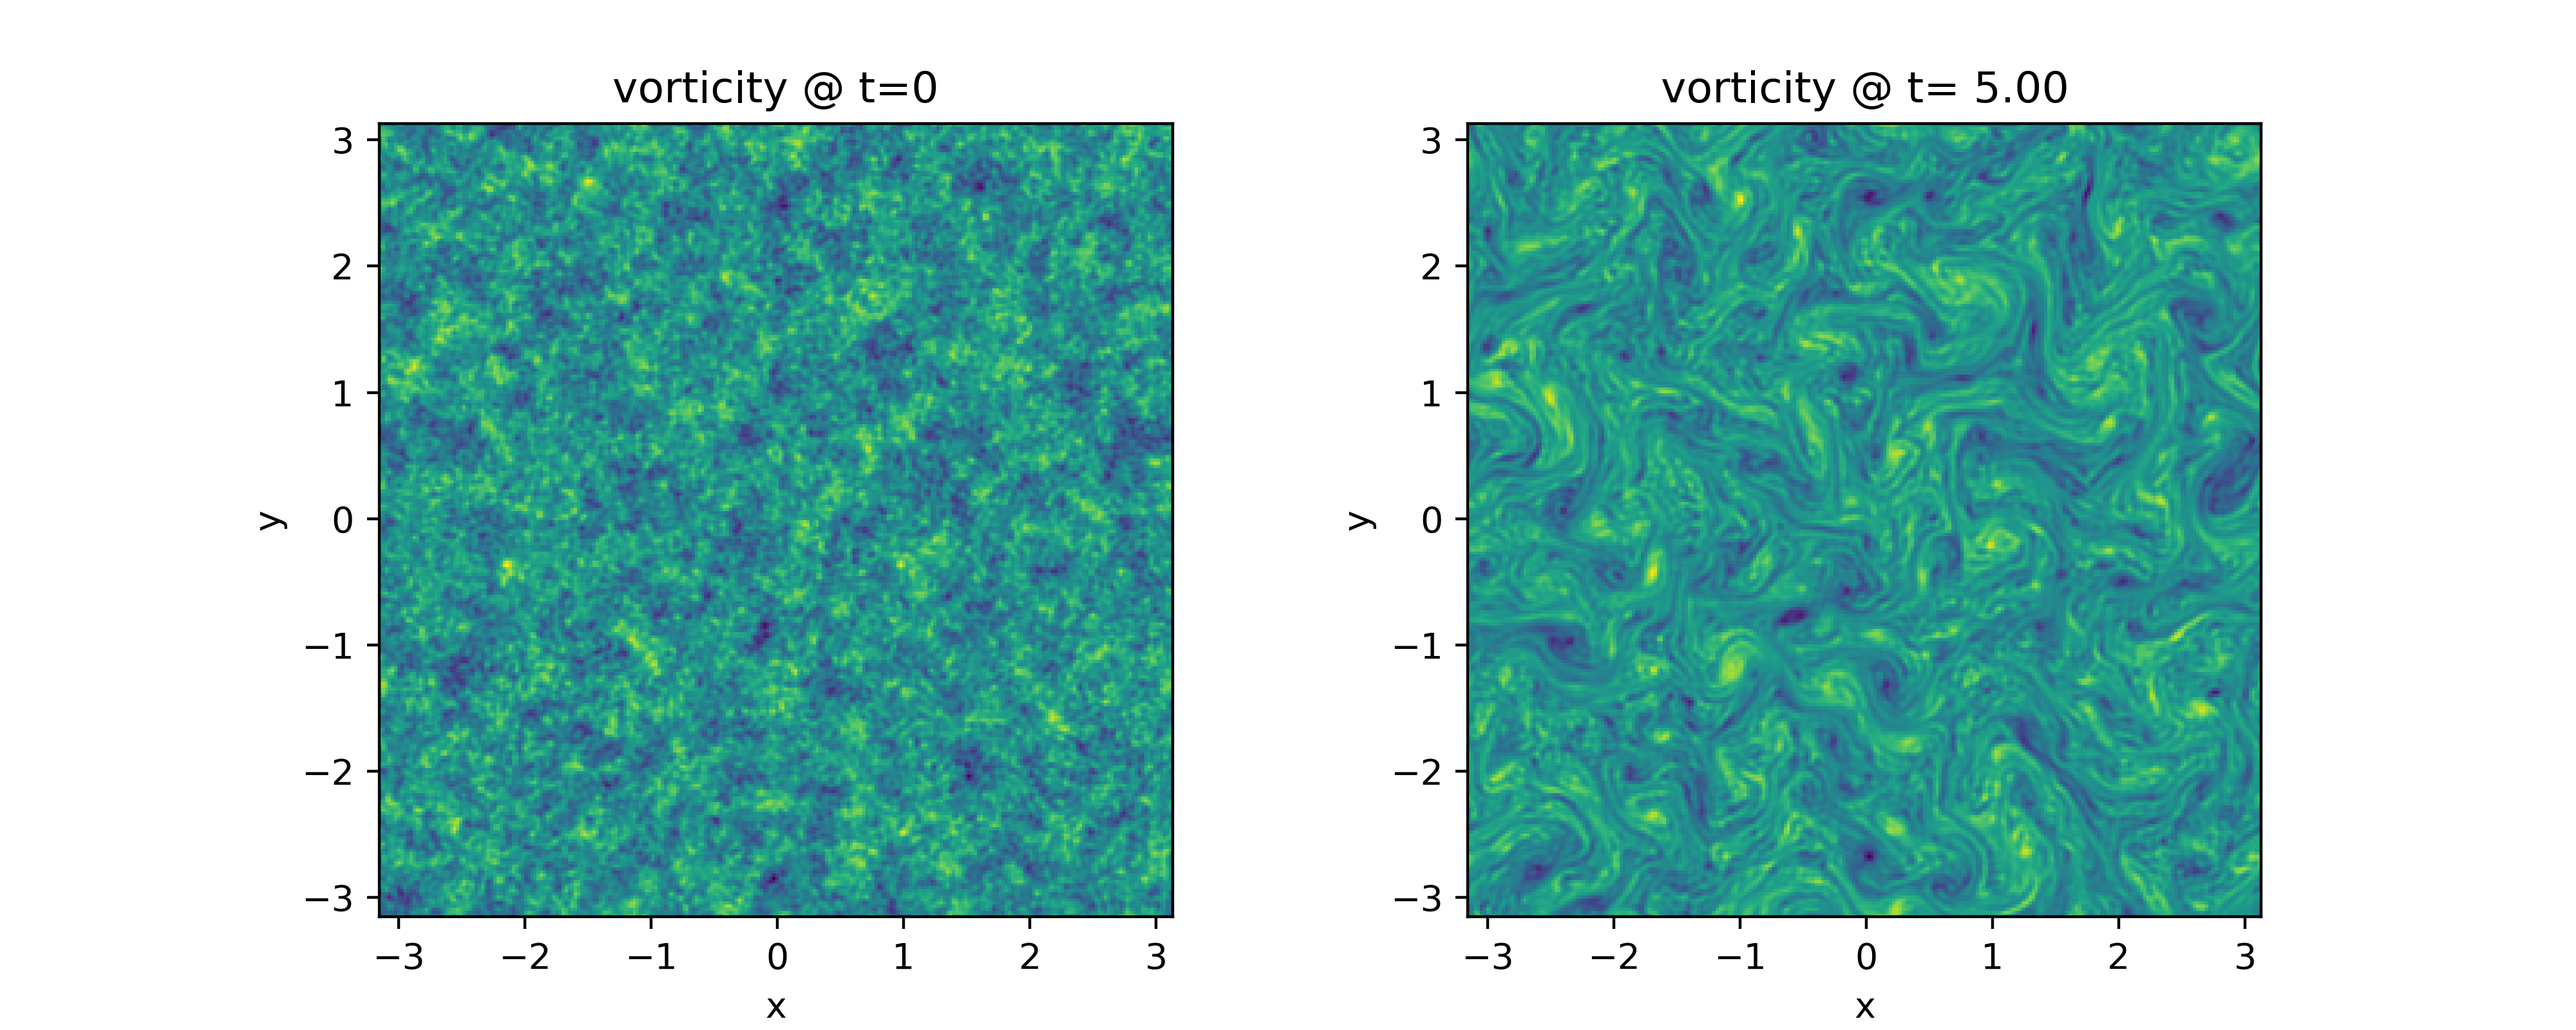
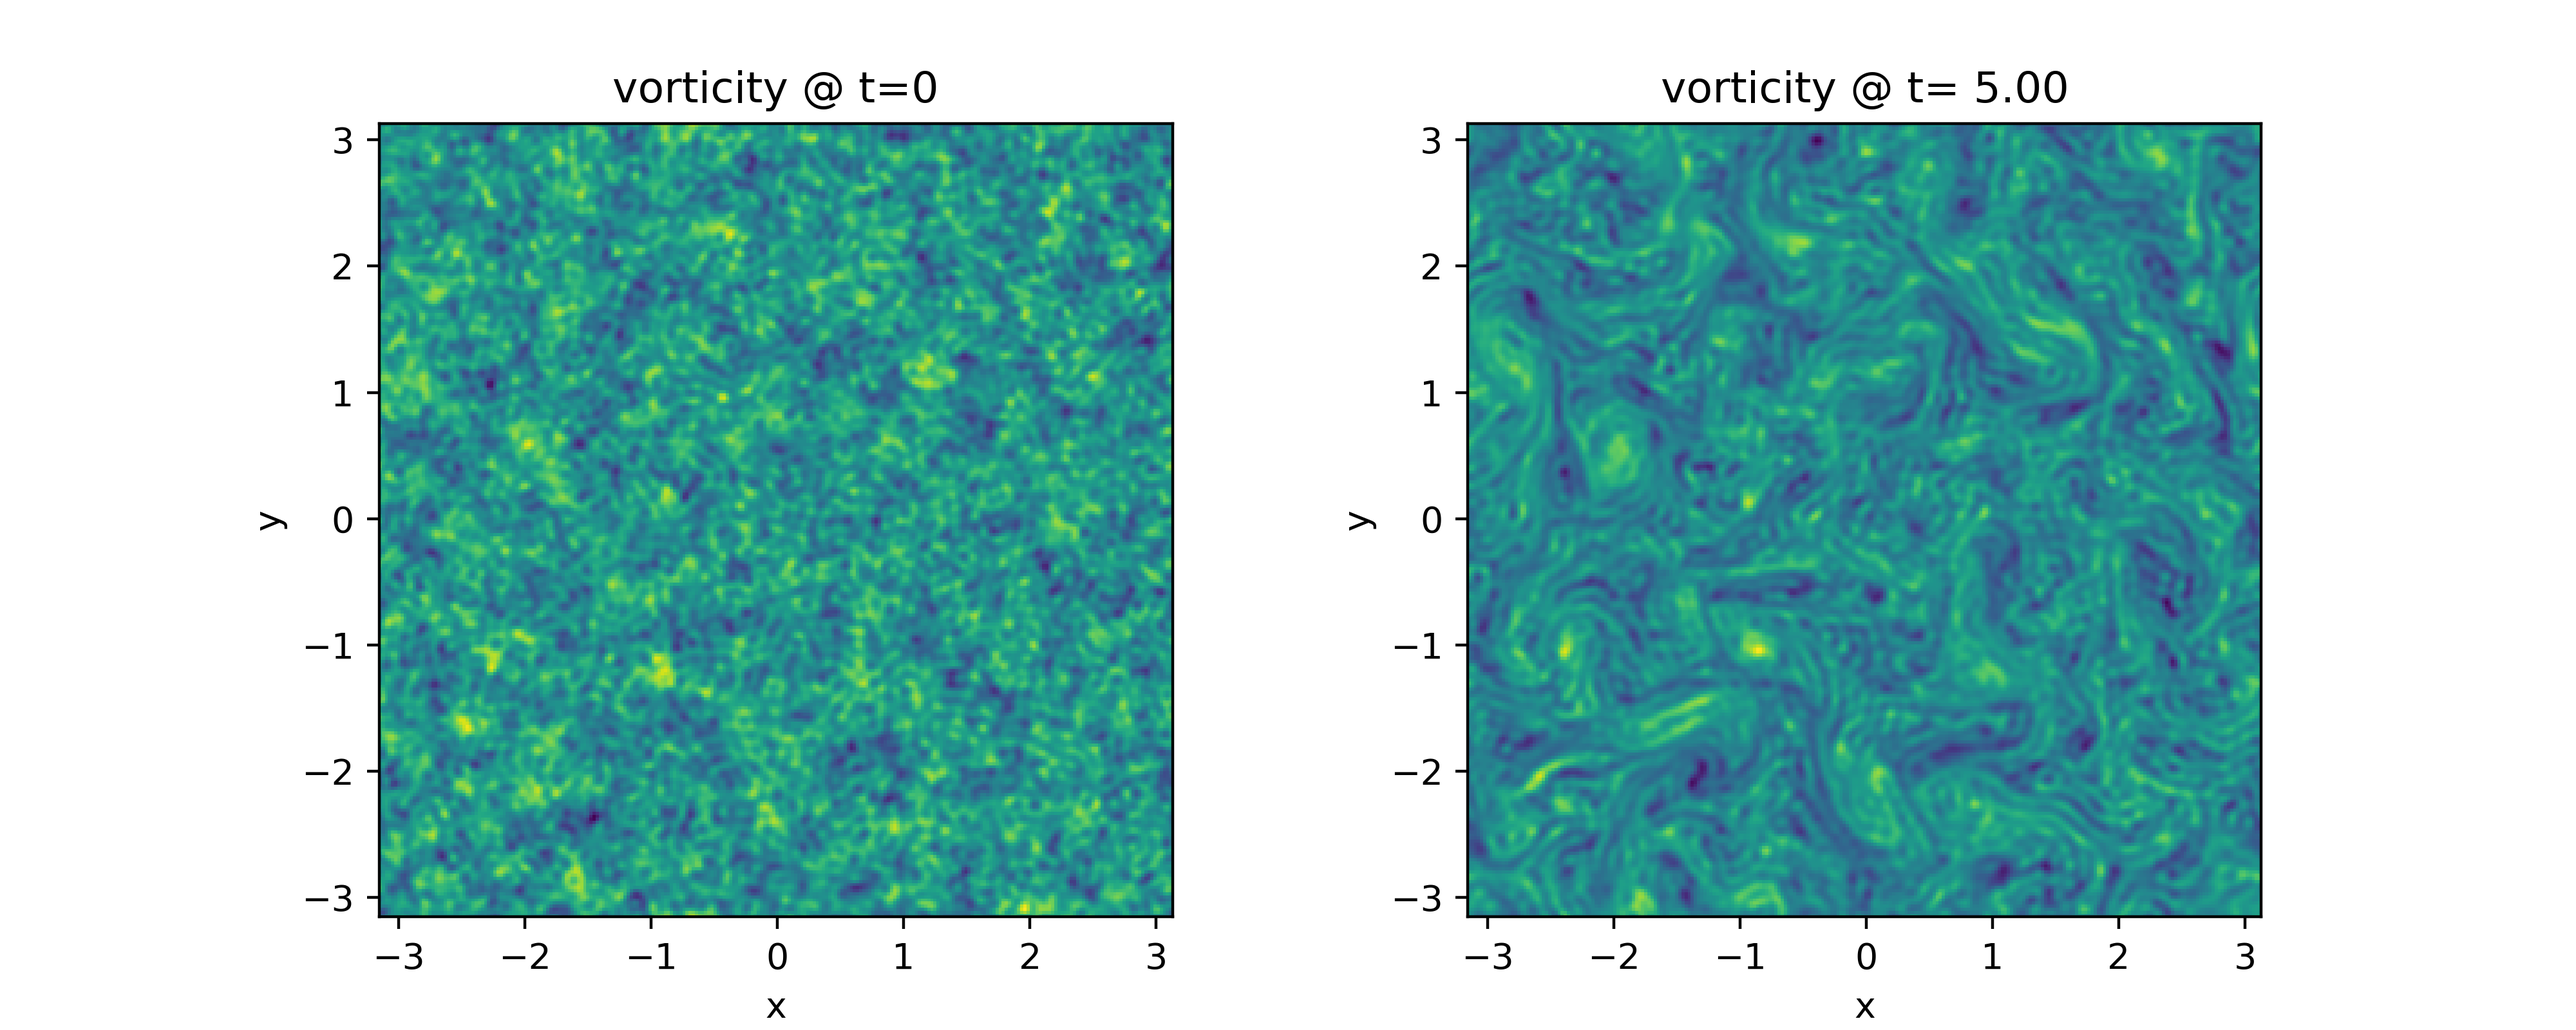
Reduce to one variable and account for dealiasing

Changed region(s): [[0.125, 0.0938, 0.4688, 0.9062], [0.5625, 0.125, 0.875, 0.9062]]

diff --git a/dedalus/dedalus_decaying2Dturbulence.py b/dedalus/dedalus_decaying2Dturbulence.py
@@ -9,8 +9,8 @@ from numpy import pi
 
 # Parameters
 Lx = Ly = 2 * pi
-nx = ny = 256
-dealias = 1
+nx = ny = 170
+dealias = 256/170
 nu = 0.
 dt = 0.01
 stop_iteration = 500
@@ -26,25 +26,19 @@ domain = de.Domain([xbasis, ybasis], grid_dtype=np.float64)
 
 x, y = domain.grid(0), domain.grid(1)
 
-variables = ['q', 'psi']
+variables = ['psi']
 problem = de.IVP(domain, variables=variables, time='t')
-
 problem.parameters['nu'] = nu
-
 problem.substitutions['J(a, b)'] = "dx(a)*dy(b) - dy(a)*dx(b)"
 problem.substitutions['lap(a)'] = "d(a, x=2) + d(a, y=2)"
-
-# Equations
+problem.substitutions['q'] = "lap(psi)"
 problem.add_equation("dt(q) + nu*lap(lap(q)) = - J(psi, q)", condition="(nx != 0) or (ny != 0)")
-problem.add_equation("q - lap(psi) = 0")
 problem.add_equation("psi = 0", condition="(nx == 0) and (ny == 0)")
-
 
 start_build_time = time.time()
 solver = problem.build_solver(de.timesteppers.SBDF2)
 logger.info('Solver built. (t = %f) ' %(time.time()-start_build_time))
 
-q = solver.state['q']
 psi = solver.state['psi']
 
 def constructfilter(domain):
@@ -84,10 +78,11 @@ def peakedisotropicspectrum(domain, k0=6, energy0=0.5, seed=1234):
     psi['g'] *= (energy0 / Ein['g'])**0.5
     return psi
 
+psi.set_scales(domain.dealias)
 psi['g'] = peakedisotropicspectrum(domain, k0=6, energy0=0.5)['g']
-q['c'] = problem.namespace['lap'](psi).evaluate()['c']
 psi['c'] *= filter
-q['c'] *= filter
+q = problem.namespace['q'].evaluate()
+q.set_scales(domain.dealias)
 qi = q['g'].copy()
 
 # Integration parameters
@@ -106,8 +101,7 @@ try:
         if solver.iteration == startup_iterations:
             start_run_time = time.time()
         solver.step(dt)
-        q['c'] = q['c']*filter
-        # psi['c'] = psi['c']*filter
+        psi['c'] *= filter
         if time_to_log(log_cadence):
             log(logger, dt)
 except:
@@ -123,6 +117,7 @@ finally:
     #     'Run time: %f cpu-hr' %((end_run_time-start_run_time)/hour * domain.dist.comm_cart.size))
 
 # Gather distributed snapshots
+q = problem.namespace['q'].evaluate()
 qf = q['g'].copy()
 qi = domain.dist.comm.gather(qi, root=0)
 qf = domain.dist.comm.gather(qf, root=0)
@@ -132,7 +127,7 @@ if domain.dist.comm.rank == 0:
     import matplotlib.pyplot as plt
     qi = np.concatenate(qi, axis=1)
     qf = np.concatenate(qf, axis=1)
-    X, Y = plot_tools.quad_mesh(xbasis.grid(1), ybasis.grid(1))
+    X, Y = plot_tools.quad_mesh(xbasis.grid(dealias), ybasis.grid(dealias))
     plt.figure(figsize=(10, 4))
     plt.subplot(121)
     plt.pcolormesh(X, Y, qi.T)
